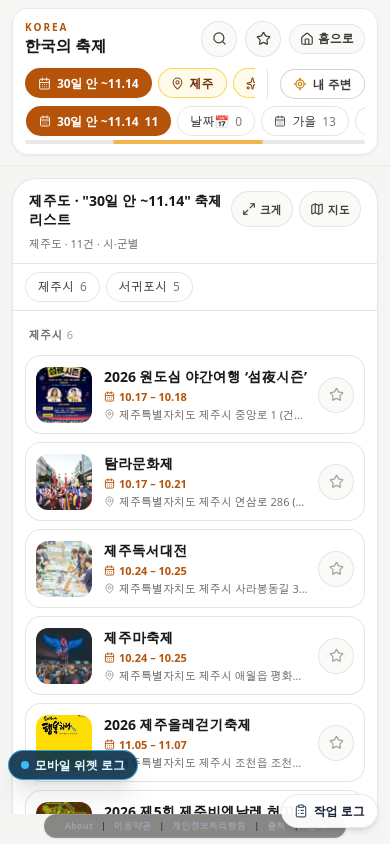
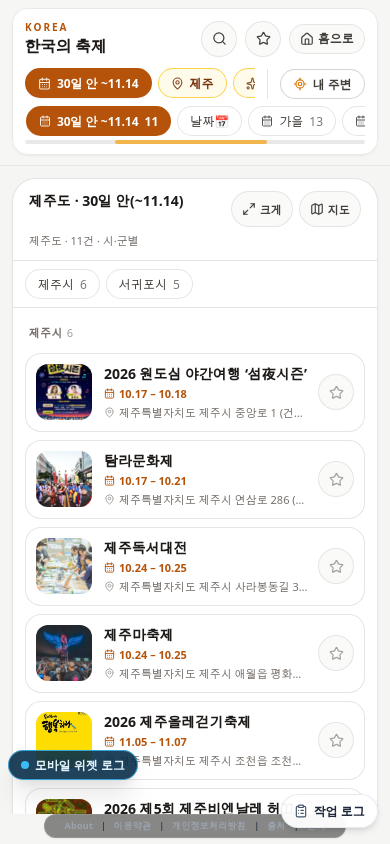
fix(korea): 기간 칩 제목을 한 줄로 맞추고 날짜 개수를 숨긴다
플래그가 켜지면 목록 제목은 «서울특별시 · 30일 안(~11.14)»처럼 따옴표 없이 한 줄이다. 날짜를 고르기 전에는 날짜 칩 개수를 보이지 않는다.

diff --git a/src/pages/Korea/index.jsx b/src/pages/Korea/index.jsx
@@ -159,6 +159,7 @@ import { useFestivalLocationBoot } from './useFestivalLocationBoot.js';
 import {
   buildFestivalIndexHeadlineContent,
   festivalIndexTimePhrase,
+  formatCompactPeriodHeadline,
 } from './festivalIndexHeadline.js';
 
 /**
@@ -174,6 +175,9 @@ function buildIndexListHeadline({
   locale = 'ko',
 }) {
   const time = festivalIndexTimePhrase(locale, timeTab, timeTabs, t);
+  const compactPeriod = Boolean(
+    timeTabs.find((tab) => tab.id === timeTab)?.headline,
+  );
   const sido = localizedSidoListPhrase(
     locale,
     areaCode,
@@ -188,6 +192,20 @@ function buildIndexListHeadline({
     ? t('korea.festival.headlineTasteSuffix', { taste })
     : '';
   const place = [sido, city].filter(Boolean).join(' ');
+
+  if (compactPeriod) {
+    const placeLabel = isNationwideRegionFilter(areaCode, cityName)
+      ? t('korea.festival.panelNationwideScope', { defaultValue: 'Nationwide' })
+      : place;
+    return {
+      kind: 'text',
+      text: formatCompactPeriodHeadline({
+        place: placeLabel,
+        time,
+        tasteSuffix,
+      }),
+    };
+  }
 
   if (isNationwideRegionFilter(areaCode, cityName)) {
     const scope = t('korea.festival.panelNationwideScope', {
@@ -1474,12 +1492,14 @@ export default function KoreaFestivalHub() {
       range.eventEndDate,
       seoulToday,
     );
-    const dateLabel = customRange?.start
+    const rangeLabel = customRange?.start
       ? formatFestivalRangeLabel(customRange.start, customRange.end, seoulToday)
-      : t('korea.festival.dateChip');
+      : '';
     return replaceMonthTabWithDateChips(base, {
       window30Label: t('korea.festival.window30Chip', { end: endLabel }),
-      dateLabel,
+      window30Headline: t('korea.festival.window30Headline', { end: endLabel }),
+      dateLabel: rangeLabel || t('korea.festival.dateChip'),
+      dateHeadline: rangeLabel,
     });
   }, [now, t, dateChipEnabled, seoulToday, customRange]);
 
@@ -2801,12 +2821,14 @@ export default function KoreaFestivalHub() {
                     >
                       {tab.id === 'date' ? null : <ChipPanelIcon panel="time" />}
                       {tab.label}
-                      <span
-                        data-period-count=""
-                        className={koreaFilterChipCountClass(timeTab === tab.id)}
-                      >
-                        {timeChipCounts[tab.id] ?? 0}
-                      </span>
+                      {tab.id === 'date' && !customRange?.start ? null : (
+                        <span
+                          data-period-count=""
+                          className={koreaFilterChipCountClass(timeTab === tab.id)}
+                        >
+                          {timeChipCounts[tab.id] ?? 0}
+                        </span>
+                      )}
                     </button>
                   ))}
                 {chipPanel === 'region' && (

diff --git a/src/pages/Korea/festivalDateFilter.js b/src/pages/Korea/festivalDateFilter.js
@@ -163,27 +163,44 @@ export function formatFestivalRangeLabel(startYmd, endYmd, todayYmd) {
 }
 
 /**
+ * List heading for «30일 안». Chip label stays `30일 안 ~11.14`.
+ * @param {string} endMonthDay `11.14` or `2027.11.14`
+ */
+export function formatWindow30HeadlinePhrase(endMonthDay) {
+  const end = String(endMonthDay || '').replace(/^~/, '').trim();
+  if (!end) return '';
+  return `30일 안(~${end})`;
+}
+
+/**
  * «30일 안» replaces «이번 달»; «날짜» follows it. Weekend and seasons stay put.
+ * Optional `headline` is the one-line list title, separate from the chip label.
  * @param {{ id: string, label: string }[]} tabs
- * @param {{ window30Label: string, dateLabel: string }} labels
+ * @param {{ window30Label: string, window30Headline?: string, dateLabel: string, dateHeadline?: string }} labels
  */
 export function replaceMonthTabWithDateChips(tabs, labels) {
-  /** @type {{ id: string, label: string }[]} */
+  /** @type {{ id: string, label: string, headline?: string }[]} */
   const out = [];
   let replaced = false;
+  const window30 = {
+    id: 'window30',
+    label: labels.window30Label,
+    ...(labels.window30Headline ? { headline: labels.window30Headline } : {}),
+  };
+  const date = {
+    id: 'date',
+    label: labels.dateLabel,
+    ...(labels.dateHeadline ? { headline: labels.dateHeadline } : {}),
+  };
   for (const tab of tabs || []) {
     if (tab?.id === 'thisMonth') {
-      out.push({ id: 'window30', label: labels.window30Label });
-      out.push({ id: 'date', label: labels.dateLabel });
+      out.push(window30, date);
       replaced = true;
     } else if (tab?.id) {
       out.push(tab);
     }
   }
-  if (!replaced) {
-    out.push({ id: 'window30', label: labels.window30Label });
-    out.push({ id: 'date', label: labels.dateLabel });
-  }
+  if (!replaced) out.push(window30, date);
   return out;
 }
 

diff --git a/e2e/korea-festival-date-chip.spec.js b/e2e/korea-festival-date-chip.spec.js
@@ -125,11 +125,16 @@ test.describe('Korea festival date chips', () => {
     const count = await periodCount(page, 'window30');
     await expect(listCards(page)).toHaveCount(count);
     expect(count).toBe(2);
+    await expect(page.locator('[data-festival-list-heading] h2')).toHaveText(
+      '서울특별시 · 30일 안(~11.14)',
+    );
+    await expect(page.locator('[data-period-id="date"] [data-period-count]')).toHaveCount(0);
     await expect(listCards(page).filter({ hasText: '서울 경계 축제' })).toHaveCount(1);
   });
 
   test('date sheet weekend range, empty period, and search skip the period', async ({ page }) => {
     await openTimeRow(page);
+    await expect(page.locator('[data-period-id="date"] [data-period-count]')).toHaveCount(0);
     await page.locator('[data-period-id="date"]').click();
     const sheet = page.locator('[data-festival-date-sheet]');
     await expect(sheet).toBeVisible();
@@ -139,6 +144,9 @@ test.describe('Korea festival date chips', () => {
     const dateChip = page.locator('[data-period-id="date"]');
     await expect(dateChip).toHaveAttribute('aria-pressed', 'true');
     await expect(dateChip).toContainText('10.24\u201310.25');
+    await expect(page.locator('[data-festival-list-heading] h2')).toHaveText(
+      '전국 · 10.24\u201310.25',
+    );
     const count = await periodCount(page, 'date');
     await expect(listCards(page)).toHaveCount(count);
     expect(count).toBeGreaterThan(0);

diff --git a/src/pages/Korea/festivalIndexHeadline.js b/src/pages/Korea/festivalIndexHeadline.js
@@ -40,13 +40,27 @@ export function listEnFestivalTimeTabHeadlines() {
  */
 export function festivalIndexTimePhrase(locale, timeTab, timeTabs, t) {
   const id = String(timeTab || 'now');
+  const tab = timeTabs.find((item) => item.id === id);
+  if (tab?.headline) return tab.headline;
   const label =
-    timeTabs.find((tab) => tab.id === id)?.label ||
+    tab?.label ||
     t('korea.festival.timeTab.now');
   if (String(locale || '').startsWith('en')) {
     return enFestivalListTimePhrase(id, label);
   }
   return label;
+}
+
+/**
+ * Flag-on period title: `서울특별시 · 30일 안(~11.14)` or `… · 10.17–10.18`.
+ * No quotes and no «축제 리스트», so the line stays as short as the flag-off title.
+ * @param {{ place?: string, time: string, tasteSuffix?: string }} p
+ */
+export function formatCompactPeriodHeadline({ place, time, tasteSuffix = '' }) {
+  const period = String(time || '').trim();
+  const taste = tasteSuffix || '';
+  if (place) return `${place} · ${period}${taste}`;
+  return `${period}${taste}`;
 }
 
 /** EN tail after time phrase — omit when phrase already includes «Festivals». */
